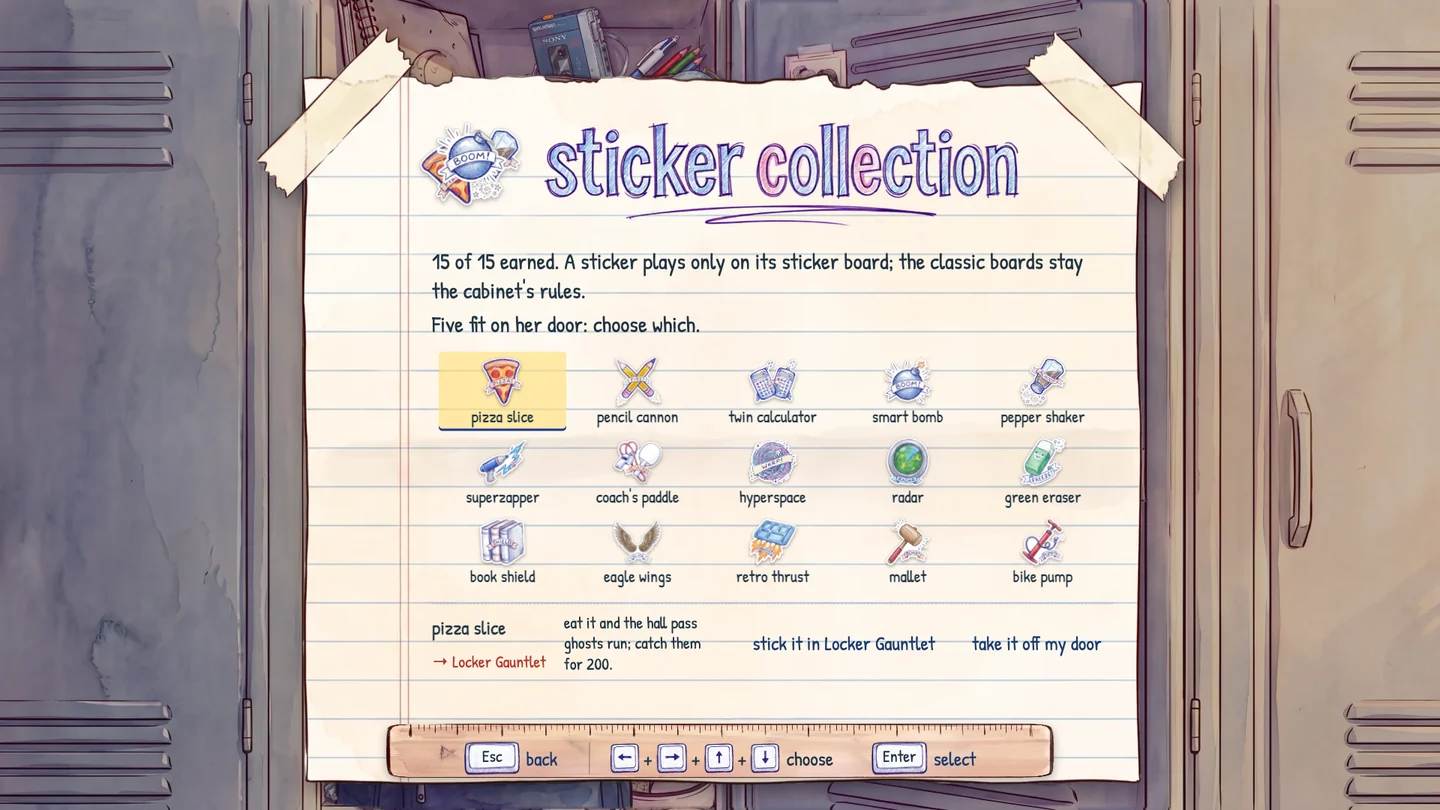
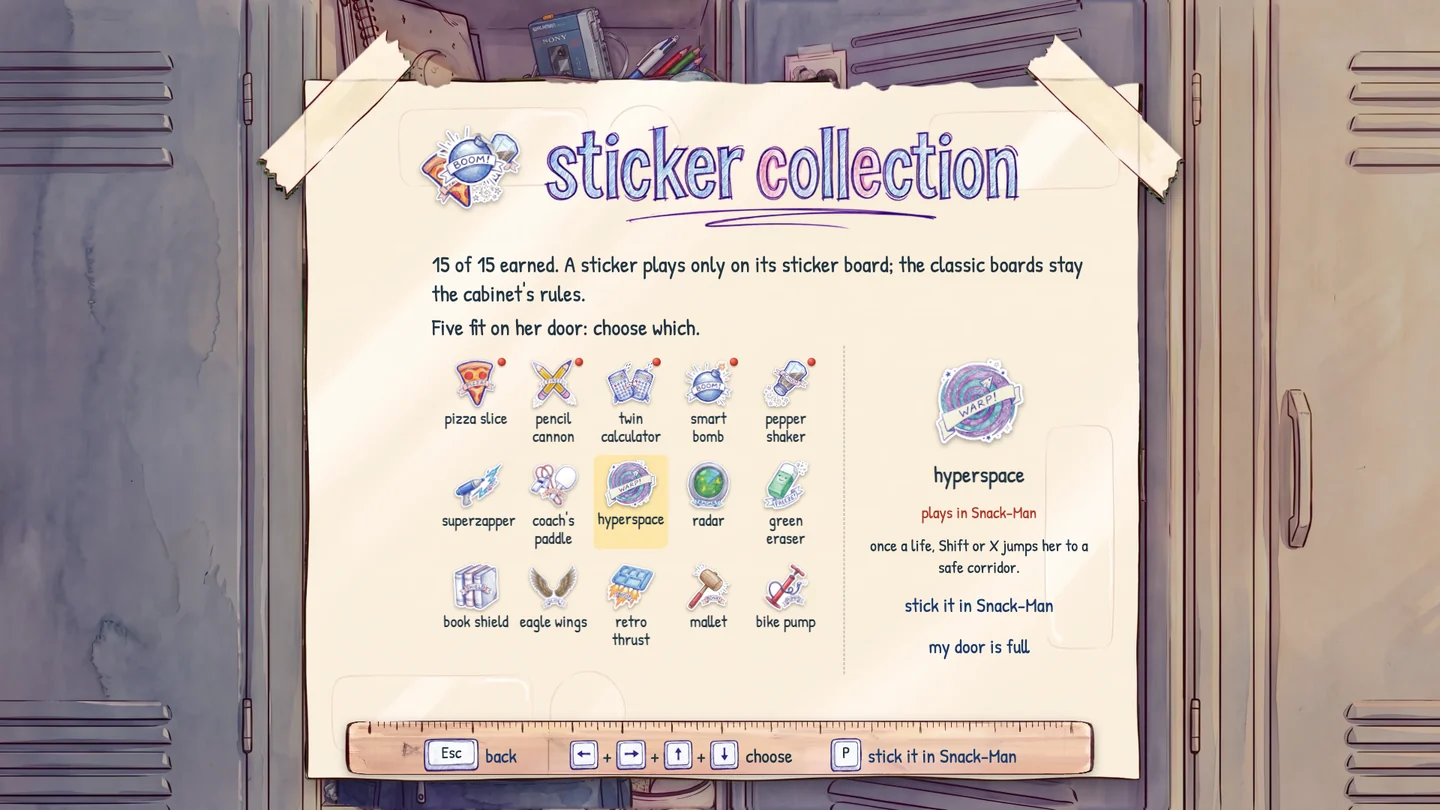
Insert Pencil: No. 2 Arcade v0.15.49; README screenshot of the new sticker collection

diff --git a/src/index.html b/src/index.html
@@ -1,8 +1,8 @@
 <!doctype html>
-<html lang="en"><head><meta charset="utf-8"><meta name="viewport" content="width=device-width,initial-scale=1,viewport-fit=cover"><meta name="apple-mobile-web-app-capable" content="yes"><meta name="mobile-web-app-capable" content="yes"><meta name="apple-mobile-web-app-status-bar-style" content="black-translucent"><meta name="apple-mobile-web-app-title" content="No. 2 Arcade"><!-- link previews (no2arca.de): read by sites that show a shared link; the page itself never loads the image --><meta name="description" content="24 classic arcade games (1972 to 1985) redrawn as a high schooler&#39;s notebooks. Free in the browser, on computers and phones."><meta property="og:type" content="website"><meta property="og:site_name" content="No. 2 Arcade"><meta property="og:title" content="No. 2 Arcade"><meta property="og:description" content="24 classic arcade games (1972 to 1985) redrawn as a high schooler&#39;s notebooks. Free in the browser, on computers and phones."><meta property="og:url" content="https://no2arca.de/"><meta property="og:image" content="https://no2arca.de/og.jpg"><meta property="og:image:width" content="1280"><meta property="og:image:height" content="640"><meta property="og:image:alt" content="She draws in her notebook after the last bell and her ballpoint arcade games lift off the page"><meta name="twitter:card" content="summary_large_image"><link rel="manifest" href="@@asset:assets/arcade/page/manifest.webmanifest@@"><title>No. 2 Arcade v0.15.48</title><style>/*@part:base-style*/</style><meta http-equiv="Content-Security-Policy" content="default-src 'none'; script-src 'unsafe-inline' 'unsafe-eval'; style-src 'unsafe-inline'; img-src data: blob:; font-src data:; frame-src 'self' about: blob:; connect-src @@leaderboard-connect@@; media-src 'none'; object-src 'none'; base-uri 'none'; worker-src blob:; manifest-src 'self' data:"><script type="application/json" id="font-licenses">/*@part:font-licenses*/</script><meta http-equiv="Content-Security-Policy" content="default-src 'none'; script-src 'unsafe-inline' blob:; style-src 'unsafe-inline'; img-src data: blob:; font-src data:; media-src data: blob:; connect-src @@leaderboard-connect@@; frame-src 'self' blob: data:; worker-src blob:; base-uri 'none'; object-src 'none'; manifest-src 'self' data:"><link rel="icon" type="image/x-icon" sizes="16x16 24x24 32x32 48x48 64x64 128x128 256x256" href="@@asset:assets/arcade/page/icon.ico@@">
+<html lang="en"><head><meta charset="utf-8"><meta name="viewport" content="width=device-width,initial-scale=1,viewport-fit=cover"><meta name="apple-mobile-web-app-capable" content="yes"><meta name="mobile-web-app-capable" content="yes"><meta name="apple-mobile-web-app-status-bar-style" content="black-translucent"><meta name="apple-mobile-web-app-title" content="No. 2 Arcade"><!-- link previews (no2arca.de): read by sites that show a shared link; the page itself never loads the image --><meta name="description" content="24 classic arcade games (1972 to 1985) redrawn as a high schooler&#39;s notebooks. Free in the browser, on computers and phones."><meta property="og:type" content="website"><meta property="og:site_name" content="No. 2 Arcade"><meta property="og:title" content="No. 2 Arcade"><meta property="og:description" content="24 classic arcade games (1972 to 1985) redrawn as a high schooler&#39;s notebooks. Free in the browser, on computers and phones."><meta property="og:url" content="https://no2arca.de/"><meta property="og:image" content="https://no2arca.de/og.jpg"><meta property="og:image:width" content="1280"><meta property="og:image:height" content="640"><meta property="og:image:alt" content="She draws in her notebook after the last bell and her ballpoint arcade games lift off the page"><meta name="twitter:card" content="summary_large_image"><link rel="manifest" href="@@asset:assets/arcade/page/manifest.webmanifest@@"><title>No. 2 Arcade v0.15.49</title><style>/*@part:base-style*/</style><meta http-equiv="Content-Security-Policy" content="default-src 'none'; script-src 'unsafe-inline' 'unsafe-eval'; style-src 'unsafe-inline'; img-src data: blob:; font-src data:; frame-src 'self' about: blob:; connect-src @@leaderboard-connect@@; media-src 'none'; object-src 'none'; base-uri 'none'; worker-src blob:; manifest-src 'self' data:"><script type="application/json" id="font-licenses">/*@part:font-licenses*/</script><meta http-equiv="Content-Security-Policy" content="default-src 'none'; script-src 'unsafe-inline' blob:; style-src 'unsafe-inline'; img-src data: blob:; font-src data:; media-src data: blob:; connect-src @@leaderboard-connect@@; frame-src 'self' blob: data:; worker-src blob:; base-uri 'none'; object-src 'none'; manifest-src 'self' data:"><link rel="icon" type="image/x-icon" sizes="16x16 24x24 32x32 48x48 64x64 128x128 256x256" href="@@asset:assets/arcade/page/icon.ico@@">
 <style id="repair-presentation">/*@part:repair-style*/</style>
 <style id="classroom-integration">/*@part:classroom-style*/</style><style>html,body{background:#000}</style></head>
-<body><div id="loading-card" aria-hidden="true"><style>@font-face{font-family:'No2 Loading Hand';src:url("@@asset:assets/arcade/v044/fonts/PatrickHand-Regular.ttf@@") format("truetype")}#loading-card{position:fixed;inset:0;z-index:2147483647;display:flex;flex-direction:column;align-items:center;justify-content:center;gap:2.2vh;background:#000;color:#f4ead6;font:clamp(18px,2.8vh,30px)/1.3 'No2 Loading Hand',Georgia,serif;letter-spacing:.01em}#loading-card .cass{position:relative;width:min(66vw,92vh)}#loading-card .cass>img{position:relative;display:block;width:100%;height:auto;filter:drop-shadow(0 12px 22px rgba(0,0,0,.45))}#loading-card .inside{position:absolute;inset:0;width:100%;height:100%}#loading-card .inside .hub,#loading-card .inside .pack{transform-box:fill-box;transform-origin:center}#loading-card .inside .hub{animation:lc-spin 1.6s linear infinite}#loading-card .inside .pack{will-change:transform}#loading-card .inside .pack.r{transform:scale(0.543)}@keyframes lc-spin{to{transform:rotate(360deg)}}@media (prefers-reduced-motion:reduce){#loading-card .inside .hub{animation:none}}#loading-card .cass>.ver{position:absolute;z-index:1;left:17.3%;top:14.9%;width:7.4%;text-align:center;color:#c0262d;font-size:min(1.75vw,2.45vh);line-height:1;transform:rotate(-6deg)}#loading-card p{margin:0;opacity:.85}#loading-card b{display:block;width:min(30vw,46vh);height:6px;border-radius:3px;background:rgba(244,234,214,.18);overflow:hidden}#loading-card b i{display:block;height:100%;width:100%;transform:scaleX(0);transform-origin:left;will-change:transform;background:#f4ead6}#loading-card .lc-line{position:relative;width:100%;height:1.4em;opacity:1}#loading-card .lc-line>span{position:absolute;left:0;right:0;top:0;text-align:center;white-space:nowrap}#loading-card .lc-go{opacity:0;transition:opacity .6s .3s}html.no2-gate #loading-card .lc-go{opacity:1;animation:lc-pulse 1.8s ease-in-out infinite}@keyframes lc-pulse{50%{color:#a99c95}}@media (prefers-reduced-motion:reduce){html.no2-gate #loading-card .lc-go{animation:none}}</style><div class="cass"><svg class="inside" viewBox="0 0 2400 1514" aria-hidden="true"><defs><radialGradient id="lc-tape"><stop offset="0" stop-color="#5a3a24"/><stop offset=".55" stop-color="#4a2e1b"/><stop offset=".9" stop-color="#3a2315"/><stop offset="1" stop-color="#2a190f"/></radialGradient><clipPath id="lc-in"><rect x="898" y="526" width="604" height="344"/><circle cx="703.6" cy="699.1" r="113.5"/><circle cx="1692.6" cy="693.9" r="113.5"/></clipPath></defs><g clip-path="url(#lc-in)"><rect x="0" y="0" width="2400" height="1514" fill="#24212a"/><g class="pack l"><circle cx="703.6" cy="699.1" r="488" fill="url(#lc-tape)"/><circle cx="703.6" cy="699.1" r="265" fill="none" stroke="#2c1a10" stroke-opacity=".18" stroke-width="2"/><circle cx="703.6" cy="699.1" r="287" fill="none" stroke="#2c1a10" stroke-opacity=".18" stroke-width="2"/><circle cx="703.6" cy="699.1" r="309" fill="none" stroke="#2c1a10" stroke-opacity=".18" stroke-width="2"/><circle cx="703.6" cy="699.1" r="331" fill="none" stroke="#2c1a10" stroke-opacity=".18" stroke-width="2"/><circle cx="703.6" cy="699.1" r="353" fill="none" stroke="#2c1a10" stroke-opacity=".18" stroke-width="2"/><circle cx="703.6" cy="699.1" r="375" fill="none" stroke="#2c1a10" stroke-opacity=".18" stroke-width="2"/><circle cx="703.6" cy="699.1" r="397" fill="none" stroke="#2c1a10" stroke-opacity=".18" stroke-width="2"/><circle cx="703.6" cy="699.1" r="419" fill="none" stroke="#2c1a10" stroke-opacity=".18" stroke-width="2"/><circle cx="703.6" cy="699.1" r="441" fill="none" stroke="#2c1a10" stroke-opacity=".18" stroke-width="2"/><circle cx="703.6" cy="699.1" r="463" fill="none" stroke="#2c1a10" stroke-opacity=".18" stroke-width="2"/><circle cx="703.6" cy="699.1" r="485" fill="none" stroke="#2c1a10" stroke-opacity=".18" stroke-width="2"/><circle cx="703.6" cy="699.1" r="488" fill="none" stroke="#24150c" stroke-width="5"/></g><g class="pack r"><circle cx="1692.6" cy="693.9" r="488" fill="url(#lc-tape)"/><circle cx="1692.6" cy="693.9" r="265" fill="none" stroke="#2c1a10" stroke-opacity=".18" stroke-width="2"/><circle cx="1692.6" cy="693.9" r="287" fill="none" stroke="#2c1a10" stroke-opacity=".18" stroke-width="2"/><circle cx="1692.6" cy="693.9" r="309" fill="none" stroke="#2c1a10" stroke-opacity=".18" stroke-width="2"/><circle cx="1692.6" cy="693.9" r="331" fill="none" stroke="#2c1a10" stroke-opacity=".18" stroke-width="2"/><circle cx="1692.6" cy="693.9" r="353" fill="none" stroke="#2c1a10" stroke-opacity=".18" stroke-width="2"/><circle cx="1692.6" cy="693.9" r="375" fill="none" stroke="#2c1a10" stroke-opacity=".18" stroke-width="2"/><circle cx="1692.6" cy="693.9" r="397" fill="none" stroke="#2c1a10" stroke-opacity=".18" stroke-width="2"/><circle cx="1692.6" cy="693.9" r="419" fill="none" stroke="#2c1a10" stroke-opacity=".18" stroke-width="2"/><circle cx="1692.6" cy="693.9" r="441" fill="none" stroke="#2c1a10" stroke-opacity=".18" stroke-width="2"/><circle cx="1692.6" cy="693.9" r="463" fill="none" stroke="#2c1a10" stroke-opacity=".18" stroke-width="2"/><circle cx="1692.6" cy="693.9" r="485" fill="none" stroke="#2c1a10" stroke-opacity=".18" stroke-width="2"/><circle cx="1692.6" cy="693.9" r="488" fill="none" stroke="#24150c" stroke-width="5"/></g><g class="hub l"><circle cx="703.6" cy="699.1" r="104.5" fill="#2b2731"/><circle cx="703.6" cy="699.1" r="80.6" fill="#f2f0ea" stroke="#9c988f" stroke-width="3"/><circle cx="703.6" cy="699.1" r="47.9" fill="#1e1b22"/><rect x="696.0" y="651.2" width="15.2" height="17.4" rx="3" fill="#efeee9" transform="rotate(0 703.6 699.1)"/><rect x="696.0" y="651.2" width="15.2" height="17.4" rx="3" fill="#efeee9" transform="rotate(60 703.6 699.1)"/><rect x="696.0" y="651.2" width="15.2" height="17.4" rx="3" fill="#efeee9" transform="rotate(120 703.6 699.1)"/><rect x="696.0" y="651.2" width="15.2" height="17.4" rx="3" fill="#efeee9" transform="rotate(180 703.6 699.1)"/><rect x="696.0" y="651.2" width="15.2" height="17.4" rx="3" fill="#efeee9" transform="rotate(240 703.6 699.1)"/><rect x="696.0" y="651.2" width="15.2" height="17.4" rx="3" fill="#efeee9" transform="rotate(300 703.6 699.1)"/><circle cx="703.6" cy="699.1" r="67.5" fill="none" stroke="#c9c5bb" stroke-width="2"/></g><g class="hub r"><circle cx="1692.6" cy="693.9" r="104.5" fill="#2b2731"/><circle cx="1692.6" cy="693.9" r="80.6" fill="#f2f0ea" stroke="#9c988f" stroke-width="3"/><circle cx="1692.6" cy="693.9" r="47.9" fill="#1e1b22"/><rect x="1685.0" y="646.0" width="15.2" height="17.4" rx="3" fill="#efeee9" transform="rotate(0 1692.6 693.9)"/><rect x="1685.0" y="646.0" width="15.2" height="17.4" rx="3" fill="#efeee9" transform="rotate(60 1692.6 693.9)"/><rect x="1685.0" y="646.0" width="15.2" height="17.4" rx="3" fill="#efeee9" transform="rotate(120 1692.6 693.9)"/><rect x="1685.0" y="646.0" width="15.2" height="17.4" rx="3" fill="#efeee9" transform="rotate(180 1692.6 693.9)"/><rect x="1685.0" y="646.0" width="15.2" height="17.4" rx="3" fill="#efeee9" transform="rotate(240 1692.6 693.9)"/><rect x="1685.0" y="646.0" width="15.2" height="17.4" rx="3" fill="#efeee9" transform="rotate(300 1692.6 693.9)"/><circle cx="1692.6" cy="693.9" r="67.5" fill="none" stroke="#c9c5bb" stroke-width="2"/></g></g></svg><img src="@@asset:assets/ui/loading-cassette.webp@@" alt=""><span class="ver">v0.15.48</span></div><b><i></i></b><p class="lc-line"><span class="lc-go"></span></p></div><style id="v044-presentation">/*@part:v044-style*/</style><style id="v043-presentation">/*@part:v043-style*/</style>
+<body><div id="loading-card" aria-hidden="true"><style>@font-face{font-family:'No2 Loading Hand';src:url("@@asset:assets/arcade/v044/fonts/PatrickHand-Regular.ttf@@") format("truetype")}#loading-card{position:fixed;inset:0;z-index:2147483647;display:flex;flex-direction:column;align-items:center;justify-content:center;gap:2.2vh;background:#000;color:#f4ead6;font:clamp(18px,2.8vh,30px)/1.3 'No2 Loading Hand',Georgia,serif;letter-spacing:.01em}#loading-card .cass{position:relative;width:min(66vw,92vh)}#loading-card .cass>img{position:relative;display:block;width:100%;height:auto;filter:drop-shadow(0 12px 22px rgba(0,0,0,.45))}#loading-card .inside{position:absolute;inset:0;width:100%;height:100%}#loading-card .inside .hub,#loading-card .inside .pack{transform-box:fill-box;transform-origin:center}#loading-card .inside .hub{animation:lc-spin 1.6s linear infinite}#loading-card .inside .pack{will-change:transform}#loading-card .inside .pack.r{transform:scale(0.543)}@keyframes lc-spin{to{transform:rotate(360deg)}}@media (prefers-reduced-motion:reduce){#loading-card .inside .hub{animation:none}}#loading-card .cass>.ver{position:absolute;z-index:1;left:17.3%;top:14.9%;width:7.4%;text-align:center;color:#c0262d;font-size:min(1.75vw,2.45vh);line-height:1;transform:rotate(-6deg)}#loading-card p{margin:0;opacity:.85}#loading-card b{display:block;width:min(30vw,46vh);height:6px;border-radius:3px;background:rgba(244,234,214,.18);overflow:hidden}#loading-card b i{display:block;height:100%;width:100%;transform:scaleX(0);transform-origin:left;will-change:transform;background:#f4ead6}#loading-card .lc-line{position:relative;width:100%;height:1.4em;opacity:1}#loading-card .lc-line>span{position:absolute;left:0;right:0;top:0;text-align:center;white-space:nowrap}#loading-card .lc-go{opacity:0;transition:opacity .6s .3s}html.no2-gate #loading-card .lc-go{opacity:1;animation:lc-pulse 1.8s ease-in-out infinite}@keyframes lc-pulse{50%{color:#a99c95}}@media (prefers-reduced-motion:reduce){html.no2-gate #loading-card .lc-go{animation:none}}</style><div class="cass"><svg class="inside" viewBox="0 0 2400 1514" aria-hidden="true"><defs><radialGradient id="lc-tape"><stop offset="0" stop-color="#5a3a24"/><stop offset=".55" stop-color="#4a2e1b"/><stop offset=".9" stop-color="#3a2315"/><stop offset="1" stop-color="#2a190f"/></radialGradient><clipPath id="lc-in"><rect x="898" y="526" width="604" height="344"/><circle cx="703.6" cy="699.1" r="113.5"/><circle cx="1692.6" cy="693.9" r="113.5"/></clipPath></defs><g clip-path="url(#lc-in)"><rect x="0" y="0" width="2400" height="1514" fill="#24212a"/><g class="pack l"><circle cx="703.6" cy="699.1" r="488" fill="url(#lc-tape)"/><circle cx="703.6" cy="699.1" r="265" fill="none" stroke="#2c1a10" stroke-opacity=".18" stroke-width="2"/><circle cx="703.6" cy="699.1" r="287" fill="none" stroke="#2c1a10" stroke-opacity=".18" stroke-width="2"/><circle cx="703.6" cy="699.1" r="309" fill="none" stroke="#2c1a10" stroke-opacity=".18" stroke-width="2"/><circle cx="703.6" cy="699.1" r="331" fill="none" stroke="#2c1a10" stroke-opacity=".18" stroke-width="2"/><circle cx="703.6" cy="699.1" r="353" fill="none" stroke="#2c1a10" stroke-opacity=".18" stroke-width="2"/><circle cx="703.6" cy="699.1" r="375" fill="none" stroke="#2c1a10" stroke-opacity=".18" stroke-width="2"/><circle cx="703.6" cy="699.1" r="397" fill="none" stroke="#2c1a10" stroke-opacity=".18" stroke-width="2"/><circle cx="703.6" cy="699.1" r="419" fill="none" stroke="#2c1a10" stroke-opacity=".18" stroke-width="2"/><circle cx="703.6" cy="699.1" r="441" fill="none" stroke="#2c1a10" stroke-opacity=".18" stroke-width="2"/><circle cx="703.6" cy="699.1" r="463" fill="none" stroke="#2c1a10" stroke-opacity=".18" stroke-width="2"/><circle cx="703.6" cy="699.1" r="485" fill="none" stroke="#2c1a10" stroke-opacity=".18" stroke-width="2"/><circle cx="703.6" cy="699.1" r="488" fill="none" stroke="#24150c" stroke-width="5"/></g><g class="pack r"><circle cx="1692.6" cy="693.9" r="488" fill="url(#lc-tape)"/><circle cx="1692.6" cy="693.9" r="265" fill="none" stroke="#2c1a10" stroke-opacity=".18" stroke-width="2"/><circle cx="1692.6" cy="693.9" r="287" fill="none" stroke="#2c1a10" stroke-opacity=".18" stroke-width="2"/><circle cx="1692.6" cy="693.9" r="309" fill="none" stroke="#2c1a10" stroke-opacity=".18" stroke-width="2"/><circle cx="1692.6" cy="693.9" r="331" fill="none" stroke="#2c1a10" stroke-opacity=".18" stroke-width="2"/><circle cx="1692.6" cy="693.9" r="353" fill="none" stroke="#2c1a10" stroke-opacity=".18" stroke-width="2"/><circle cx="1692.6" cy="693.9" r="375" fill="none" stroke="#2c1a10" stroke-opacity=".18" stroke-width="2"/><circle cx="1692.6" cy="693.9" r="397" fill="none" stroke="#2c1a10" stroke-opacity=".18" stroke-width="2"/><circle cx="1692.6" cy="693.9" r="419" fill="none" stroke="#2c1a10" stroke-opacity=".18" stroke-width="2"/><circle cx="1692.6" cy="693.9" r="441" fill="none" stroke="#2c1a10" stroke-opacity=".18" stroke-width="2"/><circle cx="1692.6" cy="693.9" r="463" fill="none" stroke="#2c1a10" stroke-opacity=".18" stroke-width="2"/><circle cx="1692.6" cy="693.9" r="485" fill="none" stroke="#2c1a10" stroke-opacity=".18" stroke-width="2"/><circle cx="1692.6" cy="693.9" r="488" fill="none" stroke="#24150c" stroke-width="5"/></g><g class="hub l"><circle cx="703.6" cy="699.1" r="104.5" fill="#2b2731"/><circle cx="703.6" cy="699.1" r="80.6" fill="#f2f0ea" stroke="#9c988f" stroke-width="3"/><circle cx="703.6" cy="699.1" r="47.9" fill="#1e1b22"/><rect x="696.0" y="651.2" width="15.2" height="17.4" rx="3" fill="#efeee9" transform="rotate(0 703.6 699.1)"/><rect x="696.0" y="651.2" width="15.2" height="17.4" rx="3" fill="#efeee9" transform="rotate(60 703.6 699.1)"/><rect x="696.0" y="651.2" width="15.2" height="17.4" rx="3" fill="#efeee9" transform="rotate(120 703.6 699.1)"/><rect x="696.0" y="651.2" width="15.2" height="17.4" rx="3" fill="#efeee9" transform="rotate(180 703.6 699.1)"/><rect x="696.0" y="651.2" width="15.2" height="17.4" rx="3" fill="#efeee9" transform="rotate(240 703.6 699.1)"/><rect x="696.0" y="651.2" width="15.2" height="17.4" rx="3" fill="#efeee9" transform="rotate(300 703.6 699.1)"/><circle cx="703.6" cy="699.1" r="67.5" fill="none" stroke="#c9c5bb" stroke-width="2"/></g><g class="hub r"><circle cx="1692.6" cy="693.9" r="104.5" fill="#2b2731"/><circle cx="1692.6" cy="693.9" r="80.6" fill="#f2f0ea" stroke="#9c988f" stroke-width="3"/><circle cx="1692.6" cy="693.9" r="47.9" fill="#1e1b22"/><rect x="1685.0" y="646.0" width="15.2" height="17.4" rx="3" fill="#efeee9" transform="rotate(0 1692.6 693.9)"/><rect x="1685.0" y="646.0" width="15.2" height="17.4" rx="3" fill="#efeee9" transform="rotate(60 1692.6 693.9)"/><rect x="1685.0" y="646.0" width="15.2" height="17.4" rx="3" fill="#efeee9" transform="rotate(120 1692.6 693.9)"/><rect x="1685.0" y="646.0" width="15.2" height="17.4" rx="3" fill="#efeee9" transform="rotate(180 1692.6 693.9)"/><rect x="1685.0" y="646.0" width="15.2" height="17.4" rx="3" fill="#efeee9" transform="rotate(240 1692.6 693.9)"/><rect x="1685.0" y="646.0" width="15.2" height="17.4" rx="3" fill="#efeee9" transform="rotate(300 1692.6 693.9)"/><circle cx="1692.6" cy="693.9" r="67.5" fill="none" stroke="#c9c5bb" stroke-width="2"/></g></g></svg><img src="@@asset:assets/ui/loading-cassette.webp@@" alt=""><span class="ver">v0.15.49</span></div><b><i></i></b><p class="lc-line"><span class="lc-go"></span></p></div><style id="v044-presentation">/*@part:v044-style*/</style><style id="v043-presentation">/*@part:v043-style*/</style>
 <canvas id="oak-desk" aria-hidden="true"></canvas>
 <svg width="0" height="0" style="position:absolute" aria-hidden="true"><filter id="hard-neon" x="-5%" y="-5%" width="110%" height="110%" color-interpolation-filters="sRGB"><feComponentTransfer in="SourceGraphic" result="lit"><feFuncR type="gamma" exponent="0.55"/><feFuncG type="gamma" exponent="0.55"/><feFuncB type="gamma" exponent="0.55"/></feComponentTransfer><feColorMatrix in="lit" type="saturate" values="2.6" result="neon"/><feColorMatrix in="SourceGraphic" type="luminanceToAlpha" result="lum"/><feComponentTransfer in="lum" result="dark"><feFuncA type="table" tableValues="1 1 0.85 0.2 0 0 0 0 0 0"/></feComponentTransfer><feComposite in="dark" in2="SourceAlpha" operator="in" result="inkmask"/><feFlood flood-color="#fbfbff"/><feComposite in2="inkmask" operator="in" result="ink"/><feGaussianBlur in="neon" stdDeviation="2.4" result="glow"/><feMerge><feMergeNode in="glow"/><feMergeNode in="neon"/><feMergeNode in="ink"/></feMerge></filter></svg><main id="hub" aria-label="No. 2 Arcade locker"><div id="desk-stage"><nav id="notebook-buttons" aria-label="Notebooks in my locker"></nav><nav id="prop-buttons" aria-label="Things in my locker"></nav><label id="ruler-control"><span id="ruler-label">volume: 100%</span><input id="master-volume" type="range" min="0" max="100" value="100" aria-label="Ruler master volume"></label><p id="school-day" class="hidden"></p></div></main>
 <section id="comic-stage" class="hidden" aria-label="The sketchbook intro"></section><p id="input-prompts" aria-live="polite"></p>

diff --git a/src/hub/locker.js b/src/hub/locker.js
@@ -1131,6 +1131,7 @@ html[lang=fr] body.locker-hub #desk-dialog #dialog-title span.heading-stickers.h
 html[lang=es] body.locker-hub #desk-dialog #dialog-title span.heading-stickers.heading-stickers.heading-stickers{aspect-ratio:3.885!important;background-image:url(@@asset:assets/ui/headings/es/collection.webp@@)!important}
 html[lang=de] body.locker-hub #desk-dialog #dialog-title span.heading-stickers.heading-stickers.heading-stickers{aspect-ratio:3.8!important;background-image:url(@@asset:assets/ui/headings/de/collection.webp@@)!important}
 html[lang=it] body.locker-hub #desk-dialog #dialog-title span.heading-stickers.heading-stickers.heading-stickers{aspect-ratio:4.975!important;background-image:url(@@asset:assets/ui/headings/it/collection.webp@@)!important}
+/* the sticker collection on sticker release paper */body.locker-hub #desk-dialog[data-screen=stickers]:not(.backpack-dialog){background-image:url(@@asset:assets/ui/dlg-sheet-release.webp@@)!important}
 body.locker-hub #desk-dialog[data-screen=stickers] #dialog-title::before{display:block!important;content:''!important;background:url(@@asset:assets/ui/stickers/collection-icon.webp@@) center/contain no-repeat!important;width:calc(var(--t-head) * 1.15)!important;height:calc(var(--t-head) * 1.15)!important;transform:rotate(-4deg);filter:drop-shadow(0 3px 3px rgba(40,30,20,.3));margin-top:calc(var(--t-head) * -.2)}
 body.locker-hub #desk-dialog #dialog-content .sticker-grid{display:grid;grid-template-columns:repeat(auto-fill,minmax(min(100%,15em),1fr));gap:.6em 1.2em;margin:.2em 0 .4em;max-height:58vh;overflow-y:auto;padding:.2em .6em .2em .2em;scrollbar-width:thin}/* one scroller on the sticker collection (Windows showed two scroll bars, the sheet's and the list's): the sheet stops scrolling and the list fills the rest of it, its bar a slim stroke of her blue ink with no arrows, the paper fading at its foot */body.locker-hub #desk-dialog #dialog-content:has(> .sticker-grid),body.locker-hub #desk-dialog #dialog-content:has(.sticker-grid){display:flex!important;flex-direction:column;overflow:hidden!important}body.locker-hub #desk-dialog #dialog-content:has(.sticker-grid)>*{flex-shrink:0}body.locker-hub #desk-dialog #dialog-content:has(.sticker-grid){padding-bottom:max(44px,calc(48 * var(--u)))!important}body.locker-hub #desk-dialog #dialog-content .sticker-grid{flex:1 1 auto!important;min-height:0;max-height:none;overscroll-behavior:contain;-webkit-mask-image:linear-gradient(#000 calc(100% - 1.6em),transparent);mask-image:linear-gradient(#000 calc(100% - 1.6em),transparent);padding-bottom:1.4em}@supports not selector(::-webkit-scrollbar){body.locker-hub #desk-dialog #dialog-content .sticker-grid{scrollbar-width:thin;scrollbar-color:rgba(27,53,145,.45) transparent}}@supports selector(::-webkit-scrollbar){body.locker-hub #desk-dialog #dialog-content .sticker-grid{scrollbar-width:auto;scrollbar-color:auto}body.locker-hub #desk-dialog #dialog-content .sticker-grid::-webkit-scrollbar{width:8px}body.locker-hub #desk-dialog #dialog-content .sticker-grid::-webkit-scrollbar-button{display:none;height:0}body.locker-hub #desk-dialog #dialog-content .sticker-grid::-webkit-scrollbar-track{background:transparent}body.locker-hub #desk-dialog #dialog-content .sticker-grid::-webkit-scrollbar-thumb{background:rgba(27,53,145,.42);border-radius:4px 3px 5px 3px;border:2px solid transparent;background-clip:padding-box}body.locker-hub #desk-dialog #dialog-content .sticker-grid::-webkit-scrollbar-thumb:hover{background-color:rgba(27,53,145,.7)}}/* denser cards so the fifteen stickers take a short scroll: several to a row, a smaller sticker, actions that wrap */body.locker-hub #desk-dialog #dialog-content .sticker-grid{grid-template-columns:repeat(auto-fill,minmax(min(100%,11.5em),1fr));gap:.2em 1.4em;align-content:start}body.locker-hub #desk-dialog #dialog-content .sticker-card{grid-template-columns:3.2em 1fr;align-items:start;align-content:start;gap:.1em .6em;padding:.45em .1em .55em}body.locker-hub #desk-dialog #dialog-content .sticker-card img{width:3.2em;height:3.2em;grid-row:span 5;margin-top:.15em}body.locker-hub #desk-dialog #dialog-content .sticker-grid{overflow-x:hidden}body.locker-hub #desk-dialog #dialog-content .sticker-card,body.locker-hub #desk-dialog #dialog-content .sticker-card>*{min-width:0;overflow-wrap:anywhere}body.locker-hub #desk-dialog #dialog-content .sticker-card :is(button.sticker-go,button.sticker-door){white-space:normal!important;text-align:left;margin-top:.1em;max-width:100%!important;line-height:1.2!important;padding-top:.15em!important;padding-bottom:.15em!important}body.locker-hub #desk-dialog #dialog-content .sticker-card :is(strong,.into){line-height:1.15}body.locker-hub #desk-dialog #dialog-content p.sticker-intro{margin-bottom:.15em!important}/* the collection as one page of tiles: five to a row, every sticker in sight; the chosen one's effect and actions in the strip below */body.locker-hub #desk-dialog #dialog-content .sticker-intro-row{display:flex;flex-wrap:wrap;column-gap:.35em}body.locker-hub #desk-dialog #dialog-content .sticker-intro-row p.sticker-intro{margin:0 0 .2em!important;line-height:1.3!important}body.locker-hub #desk-dialog #dialog-content .sticker-grid{grid-template-columns:repeat(5,minmax(0,1fr))!important;gap:calc(1 * var(--ui,1px)) calc(10 * var(--ui,1px))!important;-webkit-mask-image:none!important;mask-image:none!important;padding:.2em .3em 0!important;align-content:start}body.locker-hub #desk-dialog #dialog-content .sticker-tile{all:unset;box-sizing:border-box;display:grid;justify-items:center;align-content:start;gap:calc(2 * var(--ui,1px));padding:calc(2 * var(--ui,1px)) calc(4 * var(--ui,1px));text-align:center;cursor:pointer;border-radius:calc(10 * var(--ui,1px)) calc(6 * var(--ui,1px)) calc(12 * var(--ui,1px)) calc(7 * var(--ui,1px));min-width:0}body.locker-hub #desk-dialog #dialog-content .sticker-tile img{width:calc(64 * var(--ui,1px));height:calc(64 * var(--ui,1px));object-fit:contain;filter:drop-shadow(0 2px 2px rgba(40,30,20,.35));transform:rotate(var(--tilt,-3deg))}body.locker-hub #desk-dialog #dialog-content .sticker-tile strong{font-size:var(--t-meta)!important;color:#243543;line-height:1.1;overflow-wrap:anywhere}body.locker-hub #desk-dialog #dialog-content .sticker-tile .into{font-size:var(--t-meta)!important;color:#b03a2e;line-height:1.1;overflow-wrap:anywhere}body.locker-hub #desk-dialog #dialog-content .sticker-tile.locked img{filter:grayscale(1) brightness(1.15);opacity:.35}body.locker-hub #desk-dialog #dialog-content .sticker-tile.locked :is(strong,.into){opacity:.55}body.locker-hub #desk-dialog #dialog-content .sticker-tile.chosen{background:rgba(255,222,120,.42)}body.locker-hub #desk-dialog #dialog-content .sticker-detail{flex:0 0 auto;display:grid;grid-template-columns:auto 1fr auto;align-items:center;column-gap:.8em;min-height:calc(64 * var(--ui,1px));margin-top:.15em;padding-top:.2em;border-top:1px dashed #24354340}body.locker-hub #desk-dialog #dialog-content .sticker-head{display:grid;justify-items:start}body.locker-hub #desk-dialog #dialog-content .sticker-detail strong{font-size:var(--t-control)!important;color:#243543;white-space:nowrap}body.locker-hub #desk-dialog #dialog-content .sticker-detail .into{font-size:var(--t-meta)!important;color:#b03a2e;white-space:nowrap}body.locker-hub #desk-dialog #dialog-content .sticker-detail p{margin:0!important;font-size:var(--t-meta)!important;line-height:1.25}body.locker-hub #desk-dialog #dialog-content .sticker-acts{display:flex;gap:.6em;align-items:center}body.locker-hub #desk-dialog #dialog-content .sticker-acts button{white-space:nowrap!important;width:auto!important;font-size:var(--t-control)!important;line-height:1.2!important}@media (max-width:900px),(max-height:620px){body.locker-hub #desk-dialog #dialog-content .sticker-grid{grid-template-columns:repeat(auto-fill,minmax(92px,1fr))!important;min-height:22vh}body.locker-hub #desk-dialog #dialog-content .sticker-tile :is(strong,.into){overflow-wrap:normal!important;word-break:normal!important}body.locker-hub #desk-dialog #dialog-content .sticker-tile img{width:max(36px,calc(64 * var(--ui,1px)))!important;height:max(36px,calc(64 * var(--ui,1px)))!important}body.locker-hub #desk-dialog #dialog-content .sticker-detail{grid-template-columns:auto minmax(0,1fr) auto;column-gap:.6em;row-gap:0;min-height:0}body.locker-hub #desk-dialog #dialog-content .sticker-head{grid-auto-flow:column;column-gap:.4em;align-items:baseline}body.locker-hub #desk-dialog #dialog-content .sticker-detail p{display:-webkit-box;-webkit-line-clamp:2;-webkit-box-orient:vertical;overflow:hidden}body.locker-hub #desk-dialog #dialog-content .sticker-acts{flex-wrap:nowrap;column-gap:.8em}body.locker-hub #desk-dialog #dialog-content .sticker-detail .sticker-head .into{display:none}}
 body.locker-hub #desk-dialog #dialog-content .sticker-card{display:grid;grid-template-columns:4.2em 1fr;gap:.2em .8em;align-items:center;padding:.35em .2em;border-bottom:1px dashed #24354340}
@@ -1145,10 +1146,10 @@ body.locker-hub #desk-dialog #dialog-content .sticker-card button.sticker-door[a
 body.locker-hub #desk-dialog #dialog-content .sticker-card button.sticker-door:disabled{opacity:.45;cursor:default}
 /* short screens (phones on their side): a one-line intro, smaller stickers, two columns, the list as tall as the page allows */
 @media (max-height:520px){body.locker-hub #desk-dialog #dialog-content p.sticker-intro{font-size:12px!important;margin:0 0 .3em!important;line-height:1.25}body.locker-hub #desk-dialog #dialog-content .sticker-grid{max-height:calc(100vh - 160px);grid-template-columns:1fr;gap:0}body.locker-hub #desk-dialog #dialog-content .sticker-card{grid-template-columns:34px auto 1fr;grid-template-rows:auto auto;gap:0 .6em;padding:.2em 0}body.locker-hub #desk-dialog #dialog-content .sticker-card img{width:34px;height:34px;grid-row:span 2}body.locker-hub #desk-dialog #dialog-content .sticker-card strong{font-size:14px!important}body.locker-hub #desk-dialog #dialog-content .sticker-card .into{font-size:13px!important;align-self:end}body.locker-hub #desk-dialog #dialog-content .sticker-card p{grid-column:2 / span 2;font-size:12px!important}body.locker-hub #desk-dialog #dialog-content .sticker-card button.sticker-go{grid-column:3;grid-row:1;justify-self:end;font-size:12px!important;padding:.1em .5em!important;margin:0}}
-/* sticker collection: the tiles on the left, the chosen sticker's card on the right with its big sticker, where it plays, what it does or how to earn it, and its two actions stacked; a tile is chosen by a click or the arrows, never by hover */body.locker-hub #desk-dialog #dialog-content .sticker-body{flex:1 1 auto;min-height:0;display:grid;grid-template-columns:minmax(0,1fr) minmax(14em,30%);column-gap:calc(22 * var(--ui,1px));align-items:start}
+/* sticker collection: the tiles on the left, the chosen sticker's card on the right with its big sticker, where it plays, what it does or how to earn it, and its two actions stacked; a tile is chosen by a click or the arrows, never by hover */body.locker-hub #desk-dialog #dialog-content .sticker-body{flex:1 1 auto;min-height:0;display:grid;grid-template-columns:minmax(0,1fr) minmax(12em,27%);column-gap:calc(18 * var(--ui,1px));align-items:start}
 body.locker-hub #desk-dialog #dialog-content .sticker-body .sticker-grid{grid-template-columns:repeat(5,minmax(0,1fr))!important;row-gap:calc(10 * var(--ui,1px))!important;max-height:100%;overflow-y:auto}
 body.locker-hub #desk-dialog #dialog-content .sticker-tile{padding:calc(6 * var(--ui,1px)) calc(4 * var(--ui,1px)) calc(5 * var(--ui,1px))!important;transition:background .15s,transform .15s}
-body.locker-hub #desk-dialog #dialog-content .sticker-tile:hover{background:rgba(27,53,145,.06)}
+body.locker-hub #desk-dialog #dialog-content .sticker-body .sticker-tile strong{overflow-wrap:normal!important;word-break:normal!important;hyphens:none;font-size:var(--t-meta)!important}body.locker-hub #desk-dialog #dialog-content .sticker-body .sticker-grid{column-gap:calc(4 * var(--ui,1px))!important}body.locker-hub #desk-dialog #dialog-content .sticker-tile:hover{background:rgba(27,53,145,.06)}
 body.locker-hub #desk-dialog #dialog-content .sticker-tile.chosen{background:rgba(255,222,120,.5)!important;box-shadow:0 0 0 2px rgba(27,53,145,.55);transform:translateY(-2px)}
 body.locker-hub #desk-dialog #dialog-content .sticker-tile.chosen img{transform:rotate(0deg) scale(1.08)}
 body.locker-hub #desk-dialog #dialog-content .sticker-tile{position:relative}body.locker-hub #desk-dialog #dialog-content .sticker-tile.on-door::after{content:'';position:absolute;top:calc(4 * var(--ui,1px));right:calc(10 * var(--ui,1px));width:calc(11 * var(--ui,1px));height:calc(11 * var(--ui,1px));min-width:7px;min-height:7px;border-radius:50%;background:radial-gradient(circle at 35% 30%,#ff8a7a,#c0392b 55%,#7d1f16);box-shadow:0 2px 2px rgba(40,20,10,.35)}

diff --git a/src/shell/catalog.js b/src/shell/catalog.js
@@ -32,7 +32,7 @@ const rows=[
 const papers={college:'college ruled',quiz:'crumpled maths quiz',wide:'wide ruled',graph:'graph paper',lab:'biology lab paper',blank:'blank quiz sheet',recipe:'recipe card stock',isometric:'isometric dot grid',menu:'cafeteria menu'};
 const notebooks=rows.map(([id,title,paper,family,index,note])=>Object.freeze({id,title,paper,paperName:papers[paper],family,index,note,version:id==='scribble-defender'?'0.3.2':'0.4.0',available:['scribble-defender','erasteroids','gym-class-pong','detention-breakout','space-substitutes','lunch-lander','spitball-command','snack-man','recess-zone','galgebra','centigrade','froggology','home-ec-scramble','testpest','quiz','dunce-kong','q-nerd','dig-doug','class-of-2084','jock-joust','mystery-meat-time','hall-patrol','term-paperboy','locker-gauntlet'].includes(id),provisional:['snack-man','q-nerd','dunce-kong'].includes(id),coverAsset:'cover-'+id,thumbAsset:'thumb-'+id,paperAsset:'paper-'+paper,titleAsset:null,highScoreTableId:'No2Arcade:game:'+id+':scores',unlockDay:index+1,seed:1981+index,settings:{},inputMap:id==='scribble-defender'?{up:'arrowup',down:'arrowdown',left:'arrowleft',right:'arrowright',fire:' ',thrust:'shift',reverse:'r',bomb:'b',warp:'h',pause:'p'}:{},cheatSheet:id==='scribble-defender'?['WASD / arrows: fly. Space: tap to fire.','Shift: thrust. R: reverse. B: bomb. H: warp.','Catch classmates, then put them on the hills.','Lasers hit classmates too. P pauses. Esc closes.','Controller: stick altitude. A fires.','RT / RB thrusts. X reverses. B bombs. Y warps. LB+B closes.']:['still blank.','the rules go here when this game is ready.','for now, the tabs are the only controls.']}));
 const progression=['scribble-defender','erasteroids','space-substitutes','detention-breakout','spitball-command','quiz','snack-man',...notebooks.map(n=>n.id).filter(id=>!['scribble-defender','erasteroids','space-substitutes','detention-breakout','spitball-command','quiz','snack-man'].includes(id))];
-const catalog={progression,unlockScore:10000,deskLimit:6,version:'0.15.48',title:'No. 2 Arcade',step:1/120,defaultDesk:notebooks.slice(0,6).map(n=>n.id),notebooks,papers,byId:Object.fromEntries(notebooks.map(n=>[n.id,n])),budgets:{htmlBytes:64*1048576,hubPixels:32*1048576,blankNotebookPixels:12*1048576,defenderAtlasPixels:128*1048576,futureSimpleAtlasPixels:32*1048576,futureDenseAtlasPixels:64*1048576}};
+const catalog={progression,unlockScore:10000,deskLimit:6,version:'0.15.49',title:'No. 2 Arcade',step:1/120,defaultDesk:notebooks.slice(0,6).map(n=>n.id),notebooks,papers,byId:Object.fromEntries(notebooks.map(n=>[n.id,n])),budgets:{htmlBytes:64*1048576,hubPixels:32*1048576,blankNotebookPixels:12*1048576,defenderAtlasPixels:128*1048576,futureSimpleAtlasPixels:32*1048576,futureDenseAtlasPixels:64*1048576}};
 g.No2Catalog=catalog;if(typeof module!=='undefined')module.exports=catalog;
 })(globalThis);
 
